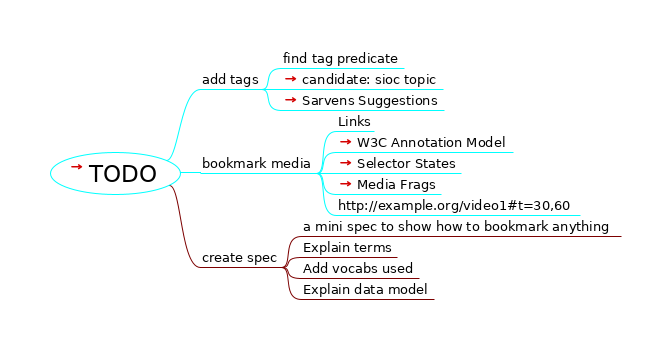
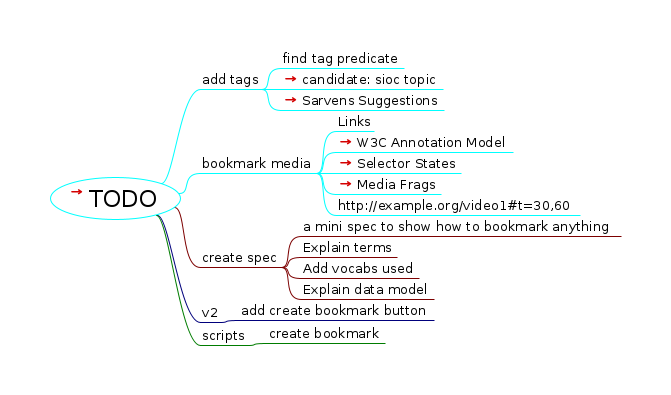
update todo list

Changed region(s): [[0.0596, 0.1433, 0.924, 0.8883], [0.0894, 0.5158, 0.1192, 0.5444]]

diff --git a/webmaps/TODO/index.html b/webmaps/TODO/index.html
@@ -23,7 +23,7 @@
                    };
                };
           
-          --></script></head><body><h1>TODO</h1><div style="width:96%;  padding:2%;  margin-bottom:10px;  border: 0px;  text-align:center;  vertical-align:center;"><img src="index.html_files/image.png" style="margin-bottom:10px; &#9;border: 0px; &#9;text-align:center; &#9;vertical-align:center;" alt="Imagemap" usemap="#fm_imagemap" /></div><map name="fm_imagemap" id="fm_imagemap"><area shape="rect" href="../index.html" alt="TODO" title="TODO" coords="50,152,181,195" />
+          --></script></head><body><h1>TODO</h1><div style="width:96%;  padding:2%;  margin-bottom:10px;  border: 0px;  text-align:center;  vertical-align:center;"><img src="index.html_files/image.png" style="margin-bottom:10px; &#9;border: 0px; &#9;text-align:center; &#9;vertical-align:center;" alt="Imagemap" usemap="#fm_imagemap" /></div><map name="fm_imagemap" id="fm_imagemap"><area shape="rect" href="../index.html" alt="TODO" title="TODO" coords="50,177,181,220" />
 <area shape="rect" href="#FMID_1539675135FM" alt="add tags" title="add tags" coords="200,71,262,89" />
 <area shape="rect" href="#FMID_1364251886FM" alt="find tag predicate" title="find tag predicate" coords="281,50,404,68" />
 <area shape="rect" href="https://www.w3.org/Submission/sioc-spec/#term_topic" alt="candidate: sioc topic" title="candidate: sioc topic" coords="281,71,443,89" />
@@ -39,7 +39,11 @@
 <area shape="rect" href="#FMID_246273742FM" alt="Explain terms" title="Explain terms" coords="301,239,397,257" />
 <area shape="rect" href="#FMID_85362562FM" alt="Add vocabs used" title="Add vocabs used" coords="301,260,419,278" />
 <area shape="rect" href="#FMID_890730441FM" alt="Explain data model" title="Explain data model" coords="301,281,434,299" />
+<area shape="rect" href="#FMID_1843633406FM" alt="v2" title="v2" coords="200,304,220,322" />
+<area shape="rect" href="#FMID_1882206157FM" alt="add create bookmark button" title="add create bookmark button" coords="239,302,434,320" />
+<area shape="rect" href="#FMID_769537529FM" alt="scripts" title="scripts" coords="200,327,248,345" />
+<area shape="rect" href="#FMID_1013561650FM" alt="create bookmark" title="create bookmark" coords="267,325,385,343" />
 </map>
 
-<div class="node"><img src="index.html_files/hide.png" class="hideshow" alt="hide" onClick="toggle(&quot;N65543&quot;)" id="imgN65543" /><a id="FMID_1066323074FM" /><div class="nodecontent" style="color:#000000;font-size:150%;"><a href="../index.html">TODO</a> <a href="../index.html"><img src="index.html_files/ilink.png" alt="User Link" style="border-width:0" /></a></div><div class="content" id="N65543"><div class="node"><img src="index.html_files/hide.png" class="hideshow" alt="hide" onClick="toggle(&quot;N66440&quot;)" id="imgN66440" /><a id="FMID_1539675135FM" /><div class="nodecontent" style="color:#000000;font-size:83%;">add tags</div><div class="content" id="N66440"><div class="node"><img src="index.html_files/leaf.png" class="hideshow" alt="leaf" /><a id="FMID_1364251886FM" /><div class="nodecontent" style="color:#000000;font-size:83%;">find tag predicate</div></div><div class="node"><img src="index.html_files/leaf.png" class="hideshow" alt="leaf" /><a id="FMID_1933160669FM" /><div class="nodecontent" style="color:#000000;font-size:83%;"><a href="https://www.w3.org/Submission/sioc-spec/#term_topic">candidate: sioc topic</a> <a href="https://www.w3.org/Submission/sioc-spec/#term_topic"><img src="index.html_files/ilink.png" alt="User Link" style="border-width:0" /></a></div></div><div class="node"><img src="index.html_files/leaf.png" class="hideshow" alt="leaf" /><a id="FMID_1714336845FM" /><div class="nodecontent" style="color:#000000;font-size:83%;"><a href="https://github.com/solid/project-pane/issues/1#issuecomment-577635763">Sarvens Suggestions</a> <a href="https://github.com/solid/project-pane/issues/1#issuecomment-577635763"><img src="index.html_files/ilink.png" alt="User Link" style="border-width:0" /></a></div></div></div></div><div class="node"><img src="index.html_files/hide.png" class="hideshow" alt="hide" onClick="toggle(&quot;N66587&quot;)" id="imgN66587" /><a id="FMID_1021863286FM" /><div class="nodecontent" style="color:#000000;font-size:83%;">bookmark media</div><div class="content" id="N66587"><div class="node"><img src="index.html_files/leaf.png" class="hideshow" alt="leaf" /><a id="FMID_1327836702FM" /><div class="nodecontent" style="color:#000000;font-size:83%;">Links</div></div><div class="node"><img src="index.html_files/leaf.png" class="hideshow" alt="leaf" /><a id="FMID_1745938100FM" /><div class="nodecontent" style="color:#000000;font-size:83%;"><a href="https://www.w3.org/TR/annotation-model/#example-17">W3C Annotation Model</a> <a href="https://www.w3.org/TR/annotation-model/#example-17"><img src="index.html_files/ilink.png" alt="User Link" style="border-width:0" /></a></div></div><div class="node"><img src="index.html_files/leaf.png" class="hideshow" alt="leaf" /><a id="FMID_1847510295FM" /><div class="nodecontent" style="color:#000000;font-size:83%;"><a href="https://www.w3.org/TR/selectors-states/#FragmentSelector_def">Selector States</a> <a href="https://www.w3.org/TR/selectors-states/#FragmentSelector_def"><img src="index.html_files/ilink.png" alt="User Link" style="border-width:0" /></a></div></div><div class="node"><img src="index.html_files/leaf.png" class="hideshow" alt="leaf" /><a id="FMID_1298655402FM" /><div class="nodecontent" style="color:#000000;font-size:83%;"><a href="https://www.w3.org/TR/media-frags/">Media Frags</a> <a href="https://www.w3.org/TR/media-frags/"><img src="index.html_files/ilink.png" alt="User Link" style="border-width:0" /></a></div></div><div class="node"><img src="index.html_files/leaf.png" class="hideshow" alt="leaf" /><a id="FMID_726157204FM" /><div class="nodecontent" style="color:#000000;font-size:83%;">http://example.org/video1#t=30,60</div></div></div></div><div class="node"><img src="index.html_files/hide.png" class="hideshow" alt="hide" onClick="toggle(&quot;N66807&quot;)" id="imgN66807" /><a id="FMID_884335775FM" /><div class="nodecontent" style="color:#000000;font-size:83%;">create spec</div><div class="content" id="N66807"><div class="node"><img src="index.html_files/leaf.png" class="hideshow" alt="leaf" /><a id="FMID_460815739FM" /><div class="nodecontent" style="color:#000000;font-size:83%;">a mini spec to show how to bookmark anything</div></div><div class="node"><img src="index.html_files/leaf.png" class="hideshow" alt="leaf" /><a id="FMID_246273742FM" /><div class="nodecontent" style="color:#000000;font-size:83%;">Explain terms</div></div><div class="node"><img src="index.html_files/leaf.png" class="hideshow" alt="leaf" /><a id="FMID_85362562FM" /><div class="nodecontent" style="color:#000000;font-size:83%;">Add vocabs used</div></div><div class="node"><img src="index.html_files/leaf.png" class="hideshow" alt="leaf" /><a id="FMID_890730441FM" /><div class="nodecontent" style="color:#000000;font-size:83%;">Explain data model</div></div></div></div></div></div>
+<div class="node"><img src="index.html_files/hide.png" class="hideshow" alt="hide" onClick="toggle(&quot;N65543&quot;)" id="imgN65543" /><a id="FMID_1066323074FM" /><div class="nodecontent" style="color:#000000;font-size:150%;"><a href="../index.html">TODO</a> <a href="../index.html"><img src="index.html_files/ilink.png" alt="User Link" style="border-width:0" /></a></div><div class="content" id="N65543"><div class="node"><img src="index.html_files/hide.png" class="hideshow" alt="hide" onClick="toggle(&quot;N66440&quot;)" id="imgN66440" /><a id="FMID_1539675135FM" /><div class="nodecontent" style="color:#000000;font-size:83%;">add tags</div><div class="content" id="N66440"><div class="node"><img src="index.html_files/leaf.png" class="hideshow" alt="leaf" /><a id="FMID_1364251886FM" /><div class="nodecontent" style="color:#000000;font-size:83%;">find tag predicate</div></div><div class="node"><img src="index.html_files/leaf.png" class="hideshow" alt="leaf" /><a id="FMID_1933160669FM" /><div class="nodecontent" style="color:#000000;font-size:83%;"><a href="https://www.w3.org/Submission/sioc-spec/#term_topic">candidate: sioc topic</a> <a href="https://www.w3.org/Submission/sioc-spec/#term_topic"><img src="index.html_files/ilink.png" alt="User Link" style="border-width:0" /></a></div></div><div class="node"><img src="index.html_files/leaf.png" class="hideshow" alt="leaf" /><a id="FMID_1714336845FM" /><div class="nodecontent" style="color:#000000;font-size:83%;"><a href="https://github.com/solid/project-pane/issues/1#issuecomment-577635763">Sarvens Suggestions</a> <a href="https://github.com/solid/project-pane/issues/1#issuecomment-577635763"><img src="index.html_files/ilink.png" alt="User Link" style="border-width:0" /></a></div></div></div></div><div class="node"><img src="index.html_files/hide.png" class="hideshow" alt="hide" onClick="toggle(&quot;N66587&quot;)" id="imgN66587" /><a id="FMID_1021863286FM" /><div class="nodecontent" style="color:#000000;font-size:83%;">bookmark media</div><div class="content" id="N66587"><div class="node"><img src="index.html_files/leaf.png" class="hideshow" alt="leaf" /><a id="FMID_1327836702FM" /><div class="nodecontent" style="color:#000000;font-size:83%;">Links</div></div><div class="node"><img src="index.html_files/leaf.png" class="hideshow" alt="leaf" /><a id="FMID_1745938100FM" /><div class="nodecontent" style="color:#000000;font-size:83%;"><a href="https://www.w3.org/TR/annotation-model/#example-17">W3C Annotation Model</a> <a href="https://www.w3.org/TR/annotation-model/#example-17"><img src="index.html_files/ilink.png" alt="User Link" style="border-width:0" /></a></div></div><div class="node"><img src="index.html_files/leaf.png" class="hideshow" alt="leaf" /><a id="FMID_1847510295FM" /><div class="nodecontent" style="color:#000000;font-size:83%;"><a href="https://www.w3.org/TR/selectors-states/#FragmentSelector_def">Selector States</a> <a href="https://www.w3.org/TR/selectors-states/#FragmentSelector_def"><img src="index.html_files/ilink.png" alt="User Link" style="border-width:0" /></a></div></div><div class="node"><img src="index.html_files/leaf.png" class="hideshow" alt="leaf" /><a id="FMID_1298655402FM" /><div class="nodecontent" style="color:#000000;font-size:83%;"><a href="https://www.w3.org/TR/media-frags/">Media Frags</a> <a href="https://www.w3.org/TR/media-frags/"><img src="index.html_files/ilink.png" alt="User Link" style="border-width:0" /></a></div></div><div class="node"><img src="index.html_files/leaf.png" class="hideshow" alt="leaf" /><a id="FMID_726157204FM" /><div class="nodecontent" style="color:#000000;font-size:83%;">http://example.org/video1#t=30,60</div></div></div></div><div class="node"><img src="index.html_files/hide.png" class="hideshow" alt="hide" onClick="toggle(&quot;N66807&quot;)" id="imgN66807" /><a id="FMID_884335775FM" /><div class="nodecontent" style="color:#000000;font-size:83%;">create spec</div><div class="content" id="N66807"><div class="node"><img src="index.html_files/leaf.png" class="hideshow" alt="leaf" /><a id="FMID_460815739FM" /><div class="nodecontent" style="color:#000000;font-size:83%;">a mini spec to show how to bookmark anything</div></div><div class="node"><img src="index.html_files/leaf.png" class="hideshow" alt="leaf" /><a id="FMID_246273742FM" /><div class="nodecontent" style="color:#000000;font-size:83%;">Explain terms</div></div><div class="node"><img src="index.html_files/leaf.png" class="hideshow" alt="leaf" /><a id="FMID_85362562FM" /><div class="nodecontent" style="color:#000000;font-size:83%;">Add vocabs used</div></div><div class="node"><img src="index.html_files/leaf.png" class="hideshow" alt="leaf" /><a id="FMID_890730441FM" /><div class="nodecontent" style="color:#000000;font-size:83%;">Explain data model</div></div></div></div><div class="node"><img src="index.html_files/hide.png" class="hideshow" alt="hide" onClick="toggle(&quot;N66988&quot;)" id="imgN66988" /><a id="FMID_1843633406FM" /><div class="nodecontent" style="color:#000000;font-size:83%;">v2</div><div class="content" id="N66988"><div class="node"><img src="index.html_files/leaf.png" class="hideshow" alt="leaf" /><a id="FMID_1882206157FM" /><div class="nodecontent" style="color:#000000;font-size:83%;">add create bookmark button</div></div></div></div><div class="node"><img src="index.html_files/hide.png" class="hideshow" alt="hide" onClick="toggle(&quot;N67061&quot;)" id="imgN67061" /><a id="FMID_769537529FM" /><div class="nodecontent" style="color:#000000;font-size:83%;">scripts</div><div class="content" id="N67061"><div class="node"><img src="index.html_files/leaf.png" class="hideshow" alt="leaf" /><a id="FMID_1013561650FM" /><div class="nodecontent" style="color:#000000;font-size:83%;">create bookmark</div></div></div></div></div></div>
 </body></html>

diff --git a/webmaps/TODO/index.ppt.html b/webmaps/TODO/index.ppt.html
@@ -62,6 +62,12 @@
                         <li>
                             create spec<a href="#/ID_884335775" class="link subsection"> &#8628;</a>
                         </li>
+                        <li>
+                            v2<a href="#/ID_1843633406" class="link subsection"> &#8628;</a>
+                        </li>
+                        <li>
+                            scripts<a href="#/ID_769537529" class="link subsection"> &#8628;</a>
+                        </li>
                     </ul>
                 </section>
                 <section class="content" id="ID_1539675135">
@@ -99,6 +105,18 @@
                         <li>Explain terms</li>
                         <li>Add vocabs used</li>
                         <li>Explain data model</li>
+                    </ul>
+                </section>
+                <section class="content" id="ID_1843633406">
+                    <h3>v2</h3>
+                    <ul>
+                        <li>add create bookmark button</li>
+                    </ul>
+                </section>
+                <section class="content" id="ID_769537529">
+                    <h3>scripts</h3>
+                    <ul>
+                        <li>create bookmark</li>
                     </ul>
                 </section>
                 <section id="end">

diff --git a/webmaps/TODO/index.mm b/webmaps/TODO/index.mm
@@ -64,7 +64,7 @@
 </stylenode>
 </map_styles>
 </hook>
-<hook NAME="AutomaticEdgeColor" COUNTER="17" RULE="ON_BRANCH_CREATION"/>
+<hook NAME="AutomaticEdgeColor" COUNTER="19" RULE="ON_BRANCH_CREATION"/>
 <node TEXT="add tags" POSITION="right" ID="ID_1539675135" CREATED="1579505027345" MODIFIED="1579505053767">
 <node TEXT="find tag predicate" ID="ID_1364251886" CREATED="1579505031072" MODIFIED="1579505035531"/>
 <node TEXT="candidate: sioc topic" ID="ID_1933160669" CREATED="1579505037840" MODIFIED="1579505053748" LINK="https://www.w3.org/Submission/sioc-spec/#term_topic"/>
@@ -83,6 +83,14 @@
 <node TEXT="Explain terms" ID="ID_246273742" CREATED="1579866487124" MODIFIED="1579866497238"/>
 <node TEXT="Add vocabs used" ID="ID_85362562" CREATED="1579866477154" MODIFIED="1579866481674"/>
 <node TEXT="Explain data model" ID="ID_890730441" CREATED="1579866498270" MODIFIED="1579866503016"/>
+</node>
+<node TEXT="v2" POSITION="right" ID="ID_1843633406" CREATED="1581201288516" MODIFIED="1581201291463">
+<edge COLOR="#00007c"/>
+<node TEXT="add create bookmark button" ID="ID_1882206157" CREATED="1581201293513" MODIFIED="1581201302228"/>
+</node>
+<node TEXT="scripts" POSITION="right" ID="ID_769537529" CREATED="1581201303877" MODIFIED="1581201307317">
+<edge COLOR="#007c00"/>
+<node TEXT="create bookmark" ID="ID_1013561650" CREATED="1581201309418" MODIFIED="1581201321098"/>
 </node>
 </node>
 </map>
